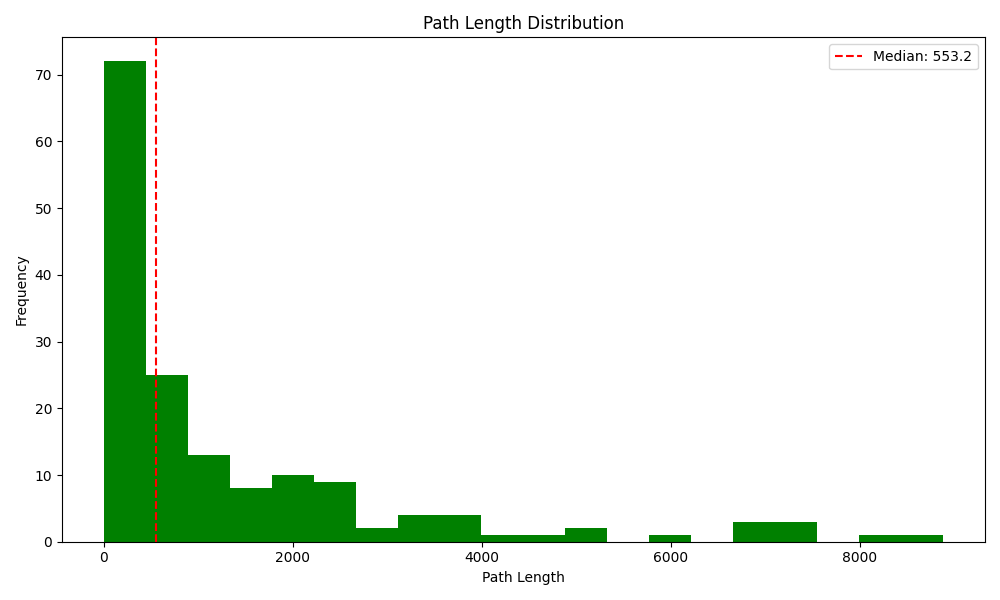
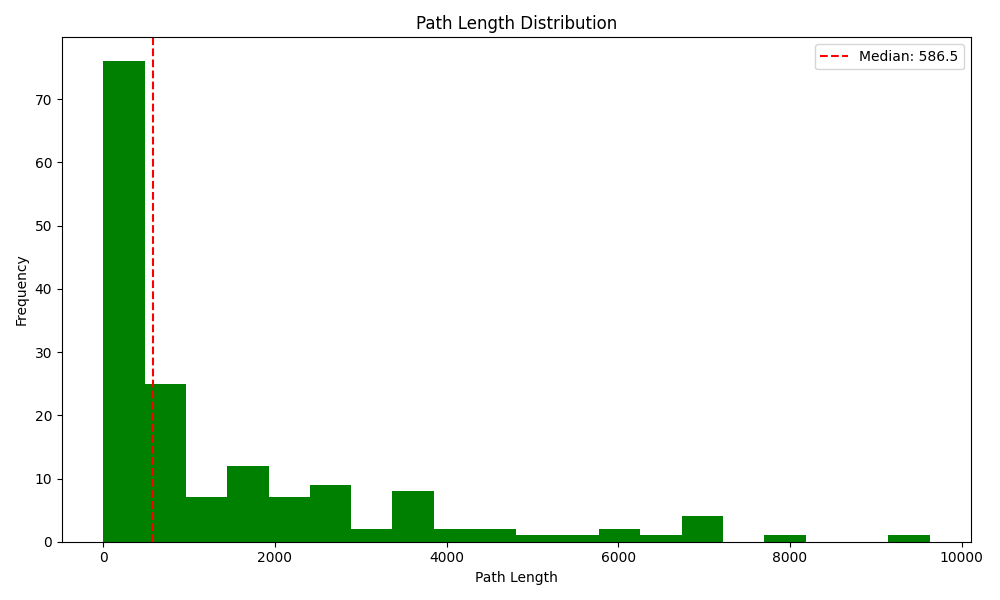
idea 2.1

diff --git a/bogoDB/candidate_submission/optimize_graph.py b/bogoDB/candidate_submission/optimize_graph.py
@@ -122,34 +122,55 @@ def optimize_graph(
     # sophisticated strategy based on query analysis!
     # ---------------------------------------------------------------
 
-    node_list = []
-    important_nodes = {}
-
     # gets nodes that were queried
+    important_nodes = {}
+    total_queries = 0
+
     for res in results['detailed_results']:
         node = str(res['target'])
         if not node in important_nodes:
             important_nodes[node] = 0
         important_nodes[node] += 1
+        total_queries += 1
 
+    # initialize optimized graph
     optimized_graph = {}
-    # creates list of all nodes
-    for node, edges in initial_graph.items():
-        node_list.append(node)
-        optimized_graph[node] = dict()
 
-    # create small cycle
-    important_nodes_list = [key for key, value in important_nodes.items()]
-    for i in range(len(important_nodes_list)):
-        u = important_nodes_list[i]
-        v = important_nodes_list[(i + 1)%len(important_nodes_list)]
+    for node, edges in initial_graph.items():
+        optimized_graph[node] = dict()
+    
+    # create list of unnecessary nodes
+    unnecessary_node_list = []
+
+    for node, edges in initial_graph.items():
+        if not node in important_nodes:
+            unnecessary_node_list.append(node)
+
+
+    # create small cycle of important nodes
+    important_node_list = [key for key, value in important_nodes.items()]
+
+    sorted(important_node_list, key = lambda x : -important_nodes[x])
+
+    for i in range(len(important_node_list)):
+        u = important_node_list[i]
+        v = important_node_list[(i + 1)%len(important_node_list)]
         optimized_graph[u][v] = 1
 
-    # feed other nodes into small cycle
-    for i in node_list:
-        if not i in important_nodes:
-            optimized_graph[i][important_nodes_list[0]] = 1
-
+    # # feed other nodes into small cycle
+    # unnecessary_node_count = len(unnecessary_node_list)
+    # for i in important_node_list:
+    #     ratio = important_nodes[i]/total_queries # we want to have 'ratio' of the unnecessary nodes pointing to i
+    #     used = 0
+    #     # add the correct number of unnecessary nodes pointing to i
+    #     while used < ratio*unnecessary_node_count and len(unnecessary_node_list) > 0:
+    #         x = unnecessary_node_list[-1]
+    #         unnecessary_node_list.pop()
+    #         optimized_graph[x][i] = 1
+    #         used += 1
+    # # if we have leftovers due to precision, just distribute them according to the most important one
+    for i in unnecessary_node_list:
+        optimized_graph[i][important_node_list[0]] = 1
 
     # =============================================================
     # End of your implementation

diff --git a/solution.md b/solution.md
@@ -5,9 +5,7 @@ I spent way too long trying to get the emojis to render :(
 
 ### Approach & Analysis
 
-For my first idea, I decided to solve a simpler version of the problem, ignoring the exponential distribution. Instead, I guaranteed that every query would reach its desired node by creating a big cycle. This idea achieved a score of a bit over 200.
 
-After running this, I notice that there are very few distinct nodes that are actually queried, so there is really no need to search over a very large cycle. Instead, we could have a small cycle consisting of the relevant nodes, and have all the unnecessary nodes feed into the cycle. This increases our score to around 470.
 
 
 ### Optimization Strategy
@@ -28,10 +26,10 @@ After running this, I notice that there are very few distinct nodes that are act
 
 ### Iteration Journey
 
-[Briefly describe your iteration process - what approaches you tried, what you learned, and how your solution evolved]
+For my first idea, I decided to solve a simpler version of the problem, ignoring the exponential distribution. Instead, I guaranteed that every query would reach its desired node by creating a big cycle. This idea achieved a score of a bit over 200.
 
----
+After running this, I notice that there are very few distinct nodes that are actually queried, so there is really no need to search over a very large cycle. Instead, we could have a small cycle consisting of the relevant nodes, and have all the unnecessary nodes feed into the cycle. This increases our score to around 470.
 
-* Be concise but thorough - aim for 500-1000 words total
-* Include specific data and metrics where relevant
-* Explain your reasoning, not just what you did
+We can additionally optimize the previous idea, since within the few distinct queried nodes (call these important nodes), there are still differences in the amount of times they are queried. My first idea for optimizing this is to weight the number of unnecessary nodes that feeds into each important nodes by the number of times they are queried. After implementing this, it actually performs worse than the previous idea. Why?
+
+From looking at the data, the issue is that when a path enters the cycle, it might have to loop around the entire cycle to find its target node. Thus, we should be ordering the cycle in such a way so that the expected number of steps to reach the target node is minimized once a path enters the cycle. We can do this by having every single unnecessary node feed into the most occuring queried node and have the cycle loop around in decreasing order of occurence. This improves the score slightly to 480.
